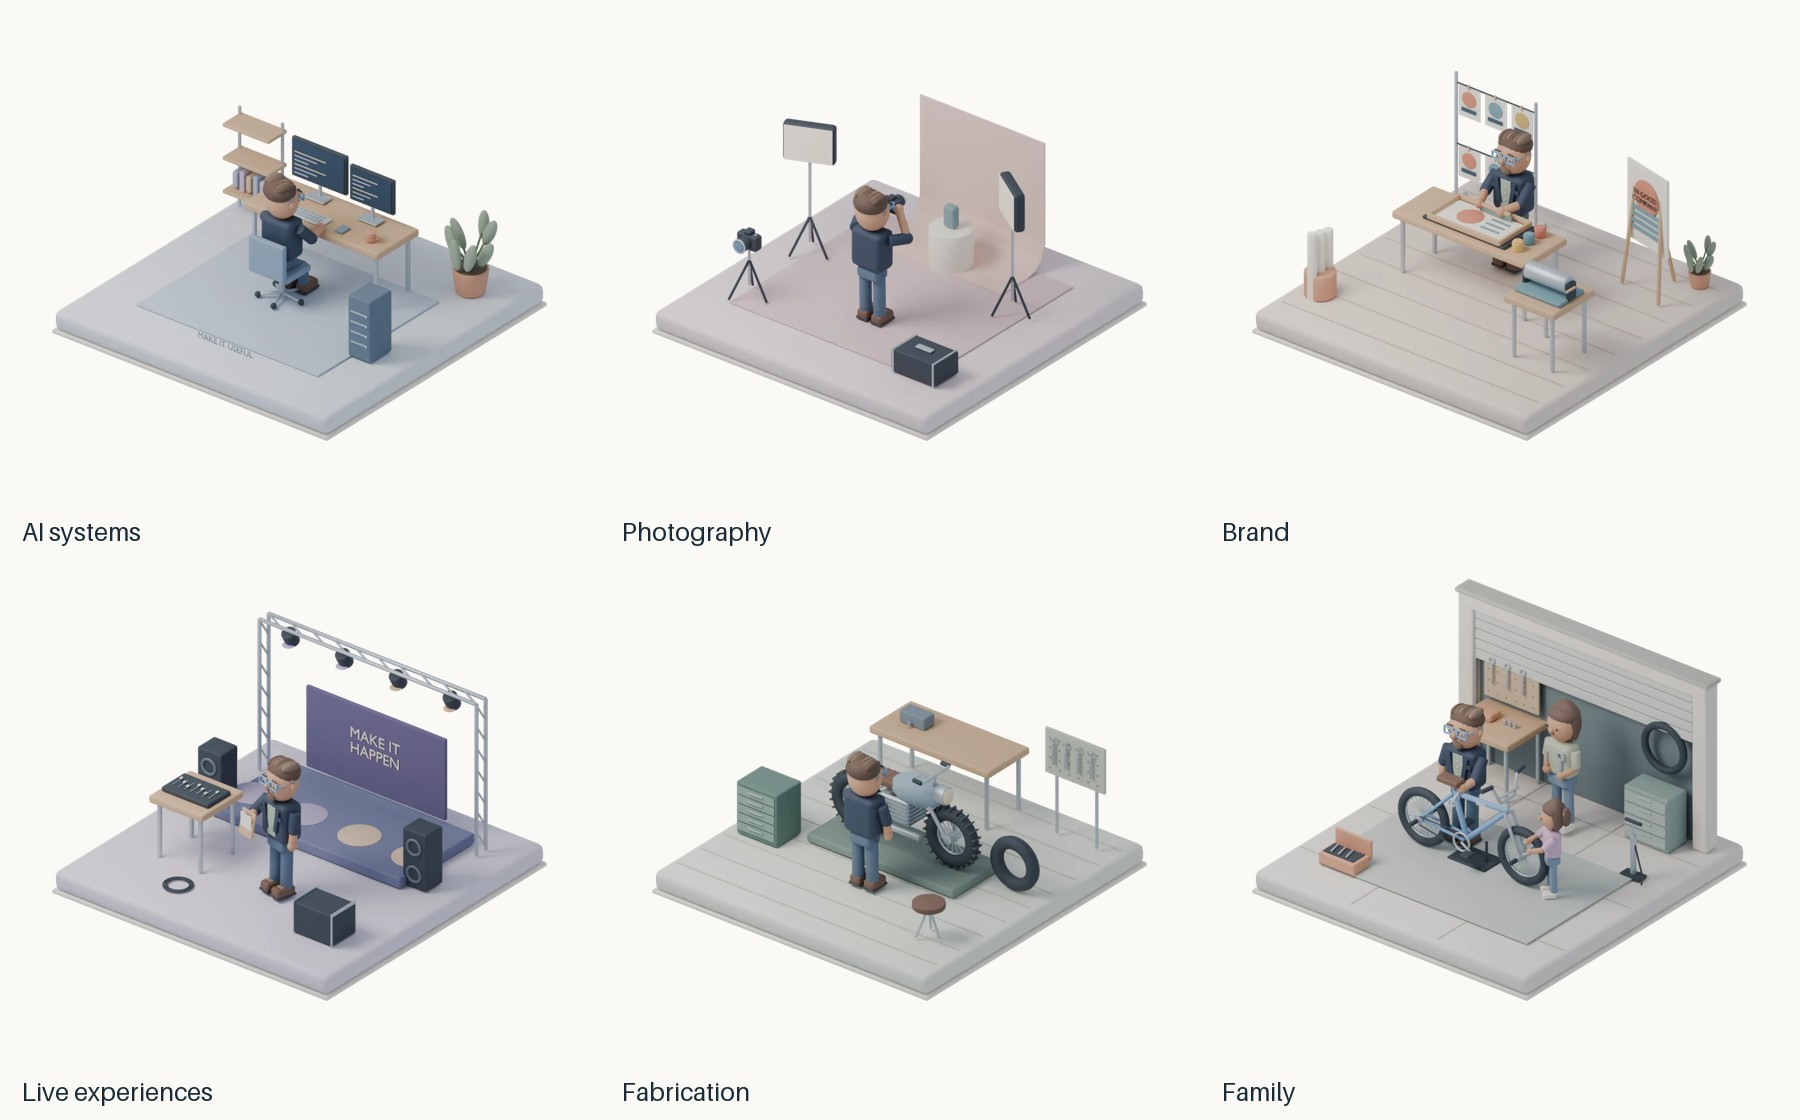
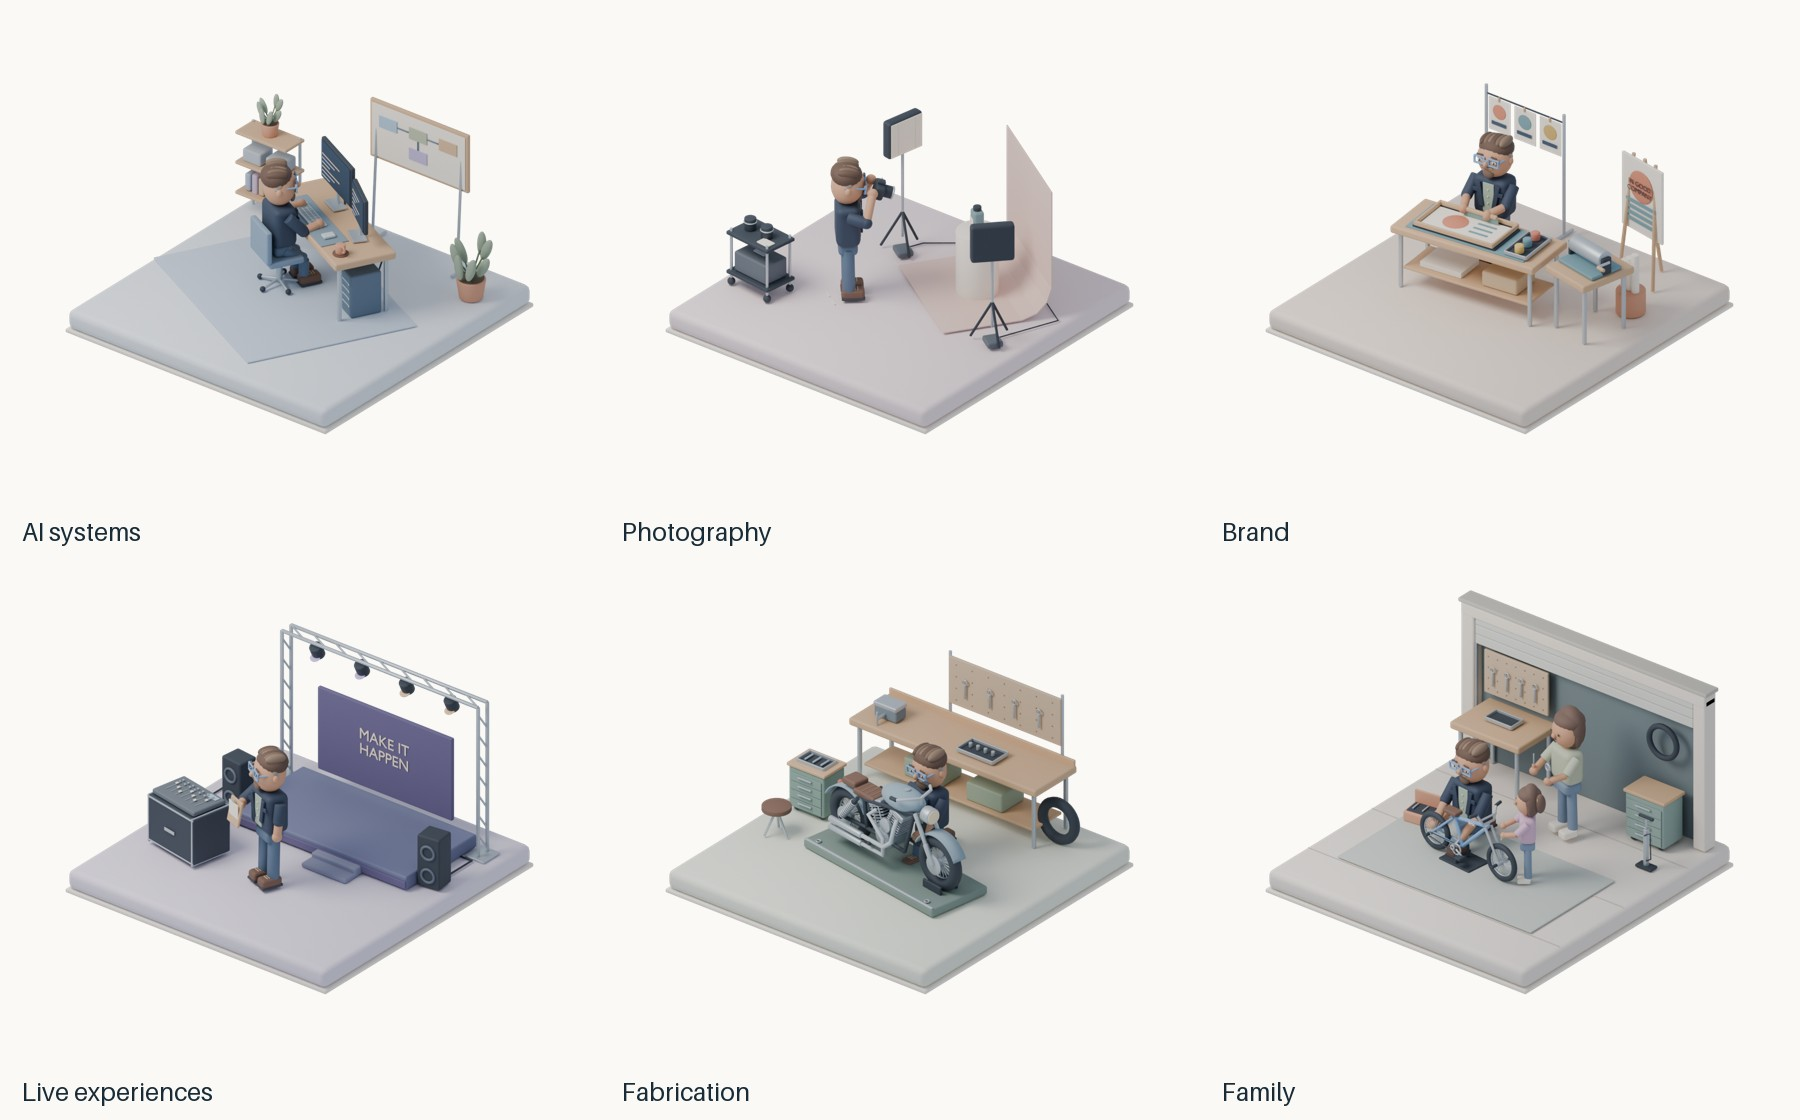
Fix diorama modeling mistakes in the Blender generator
- Glasses, eyes and brows sit on the face surface instead of floating
- AI desk: hands on the keys, thighs on the seat, feet clear of the chair base
- Photography: light cable runs behind the sweep; stray tape marks removed
- Brand: poster rests on the easel ledge, title clear of the sun, prints flat
- Events: backdrop stands on the deck with feet; console controls sit flush
- Fabrication: kneel beside a narrower lift; foot pegs attached; spare tire on the bench end
- Family: Dad behind the bike, crank turned clear of his wrench, tire on a hook,
  bench and pegboard against the wall, garage frame seam closed

Rebuilt models and posters follow in the next commit.

Claude-Session: https://claude.ai/code/session_012a2XegrK8suWreGQ6nSAg9

diff --git a/site/blender/build_dioramas.py b/site/blender/build_dioramas.py
@@ -70,7 +70,7 @@ def camera(parent,x,y,z,s=1):
  sphere('Shutter',.02,'metal',.14,.15,.02,p);return p
 
 def character(parent,x=0,z=0,pose='stand',rot=0):
- root=empty('MICHAEL',x,0,z,parent,rot);seated=pose in ('desk','ride','family');hip=.73 if seated else (.35 if pose=='kneel-low' else .48 if pose=='kneel' else .92)
+ root=empty('MICHAEL',x,0,z,parent,rot);seated=pose in ('desk','ride','family');hip=.75 if seated else (.35 if pose=='kneel-low' else .48 if pose=='kneel' else .92)
  box('Hips',.43,.21,.31,'pants',0,hip,0,root,bevel=.07)
  for side in (-1,1):
   sx=side*.14
@@ -79,7 +79,7 @@ def character(parent,x=0,z=0,pose='stand',rot=0):
    ankle=(sx,.12,-.50) if side==-1 else (sx,.13,.38)
    rod('Kneeling thigh',(sx,hip,0),knee,.098,'pants',root);rod('Kneeling shin',knee,ankle,.084,'pants',root);footz=ankle[2]+.08
   elif seated:
-   rod('Thigh',(sx,hip,0),(sx,.48,.36),.098,'pants',root);rod('Shin',(sx,.48,.36),(sx,.16,.36),.084,'pants',root);footz=.45
+   rod('Thigh',(sx,hip,0),(sx,.735,.40),.098,'pants',root);rod('Shin',(sx,.735,.40),(sx,.17,.50),.084,'pants',root);footz=.58
   else:
    rod('Trouser leg',(sx,hip,0),(sx,.16,.015),.101,'pants',root);footz=.08
   box('Boot',.215,.16,.36,'boot',sx,.13,footz,root,bevel=.055);box('Sole',.222,.044,.37,'sole',sx,.063,footz,root,bevel=.015)
@@ -101,18 +101,25 @@ def character(parent,x=0,z=0,pose='stand',rot=0):
  sphere('Hair cap',.29,'hair',0,.185,-.048,head,scale=(1,.65,.88))
  for i in range(6):
   o=sphere('Swept hair',.102,['hair','6B5747','7B6756'][i%3],-.185+i*.072,.275+i*.009,-.04,head,scale=(.69,.78,1.7));o.rotation_euler[1]=-.35
+ # Features sit on the face sphere's real surface, so nothing hovers in front of it.
+ def skin(x,y):return .286*.92*math.sqrt(max(0,1-(x/.286)**2-((y-.012)/(.286*1.15))**2))
+ inner=[]
  for side in (-1,1):
-  xx=side*.129
-  sphere('Eye white',.040,'F1E8DC',xx,.052,.248,head,scale=(1,.71,.25));sphere('Eye',.023,'35474E',xx,.052,.263,head,scale=(.8,1,.38));sphere('Eye catchlight',.007,'FFFFFF',xx-.004,.06,.272,head)
-  box('Blue pearl glasses top',.199,.026,.028,'blue',xx,.112,.263,head,bevel=.01);box('Blue pearl glasses bottom',.199,.026,.028,'blue',xx,-.005,.269,head,bevel=.01)
-  for k in (-1,1):box('Glasses rim',.027,.126,.028,'blue',xx+k*.089,.055,.267,head,bevel=.01)
-  rod('Glasses temple',(side*.223,.08,.25),(side*.263,.065,-.083),.014,'blue',head)
-  brow=box('Brow',.11,.025,.018,'hair',xx,.145,.247,head,bevel=.012);brow.rotation_euler[1]=side*.06
- box('Glasses bridge',.08,.018,.023,'blue',0,.073,.279,head,bevel=.006);sphere('Nose',.058,'skin',0,.015,.278,head,scale=(.66,.88,1.07))
+  xx=side*.129;d=skin(xx,.052)
+  sphere('Eye white',.040,'F1E8DC',xx,.052,d+.002,head,scale=(1,.71,.25));sphere('Eye',.023,'35474E',xx,.052,d+.009,head,scale=(.8,1,.38));sphere('Eye catchlight',.007,'FFFFFF',xx-.004,.06,d+.016,head)
+  # Each lens is a small frame tilted to follow the cheek, resting just proud of the eye.
+  tilt=math.atan2(skin(side*.05,.055)-skin(side*.21,.055),.16);lens_d=skin(xx,.055)+.034
+  lens=empty('Glasses lens',xx,.055,lens_d,head,side*tilt)
+  box('Blue pearl glasses top',.17,.024,.024,'blue',0,.05,0,lens,bevel=.009);box('Blue pearl glasses bottom',.17,.024,.024,'blue',0,-.05,0,lens,bevel=.009)
+  for k in (-1,1):box('Glasses rim',.024,.124,.024,'blue',k*.081,0,0,lens,bevel=.009)
+  ox=xx+side*.081*math.cos(tilt);od=lens_d-.081*math.sin(tilt);inner.append(lens_d+.081*math.sin(tilt))
+  rod('Glasses temple',(ox+side*.008,.075,od-.01),(side*.283,.066,-.02),.012,'blue',head)
+  brow=box('Brow',.11,.025,.018,'hair',xx,.145,skin(xx,.145)+.01,head,bevel=.012);brow.rotation_euler[1]=side*.06;brow.rotation_euler[2]=side*tilt
+ box('Glasses bridge',.08,.018,.022,'blue',0,.072,max(inner),head,bevel=.006);sphere('Nose',.058,'skin',0,.015,.278,head,scale=(.66,.88,1.07))
  arms=[]
  for side in (-1,1):
   ar=empty('ARM_R' if side==1 else 'ARM_L',side*.34,.54,0,body);elbow=(side*.05,-.27,.055);hand=(side*.055,-.54,.09)
-  if pose in ('desk','family'):elbow=(side*.06,-.26,.24);hand=(side*.01,-.22,.53)
+  if pose in ('desk','family'):elbow=(side*.07,-.15,.26);hand=(side*.02,-.13,.55)
   if pose in ('kneel','kneel-low'):elbow=(side*.025,-.30,.22);hand=(-side*.04,-.58 if pose=='kneel-low' else -.48,.53)
   if pose=='photo':elbow=(side*.15,-.02,.27);hand=(-side*.11,.36,.38)
   if pose=='ride':elbow=(side*.06,-.29,.42);hand=(side*.03,-.32,.94)
@@ -196,7 +203,7 @@ def motorcycle(parent,x=0,z=0,s=1):
  for zz in (-.34,.34):rod('Grip',(.40,1.40,zz),(.27,1.39,zz),.032,'dark',p)
  lamp=cylinder('Round headlight housing',.13,.18,'metal',.77,1.17,0,p);lamp.rotation_euler[1]=math.pi/2
  glass=cylinder('Round headlight',.112,.012,'F5E4BA',.865,1.17,0,p);glass.rotation_euler[1]=math.pi/2
- for zz in (-.29,.29):rod('Foot peg',(-.17,.43,zz),(-.17,.43,zz*1.4),.028,'dark',p)
+ for zz in (-.15,.15):rod('Foot peg',(-.17,.45,zz),(-.17,.45,zz*2.6),.028,'dark',p)
  sphere('Tail light',.045,'B86253',-1.25,.89,0,p)
  return p
 
@@ -224,7 +231,7 @@ def family_person(p,name,x,z,scale=.7,seated=True,working=False):
  sphere('Hair crown',.27,'655047',0,.17,-.048,head,scale=(1,.64,.95))
  for side in (-1,1):
   sphere('Hair side',.09,'655047',side*.235,-.04,-.055,head,scale=(.65,2.2,.8))
-  sphere('Eye',.024,'dark',side*.105,.025,.242,head,scale=(.8,1,.3))
+  sphere('Eye',.024,'dark',side*.105,.025,.01+.26*.91*math.sqrt(1-(.105/.26)**2-(.025/.286)**2)+.004,head,scale=(.8,1,.3))
  sphere('Nose',.044,'skin',0,-.023,.258,head)
  box('Smile',.072,.013,.009,'81574E',0,-.092,.243,head,bevel=.005)
  if name=='DAUGHTER':
@@ -267,8 +274,8 @@ def bmx(p,x=0,z=0):
  rod('Top chain run',(-.13,.41,.14),(-.73,.402,.14),.009,'dark',q)
  rod('Lower chain run',(-.13,.23,.14),(-.73,.328,.14),.009,'dark',q)
  for side in (-1,1):
-  rod('Crank arm',(-.13,.32,side*.15),(-.13+side*.13,.32-side*.08,side*.15),.016,'metal',q)
-  box('Platform pedal',.12,.041,.14,'dark',-.13+side*.13,.32-side*.08,side*.20,q,bevel=.012)
+  rod('Crank arm',(-.13,.32,side*.15),(-.13-side*.13,.32+side*.08,side*.15),.016,'metal',q)
+  box('Platform pedal',.12,.041,.14,'dark',-.13-side*.13,.32+side*.08,side*.20,q,bevel=.012)
  text('Frame decal','BMX',.067,'ivory',.10,.82,.036,q)
  return q
 
@@ -397,8 +404,7 @@ def photo(p):
   ring('Lens focus ring',.096,.012,'metal',xx,1.11,0,cart,flat=True)
  box('Folded microfiber',.24,.025,.17,'ivory',.27,.985,.15,cart)
  # Marks describe real operator/subject positions without adding scene titles.
- for xx in (-.65,-.38):box('Photographer tape mark',.15,.005,.028,'ivory',xx,.008,1.32,shoot)
- cable('Lighting cable',[(-1.63,.025,-.23),(-1.70,.025,-.60),(-1.30,.025,-1.84),(1.30,.025,-1.84),(1.55,.025,-.67)],shoot,.012)
+ cable('Lighting cable',[(-1.63,.025,-.23),(-1.66,.025,-1.10),(-1.40,.025,-2.08),(1.20,.025,-2.08),(1.55,.025,-1.30),(1.55,.025,-.67)],shoot,.012)
  return c,h,a
 
 def graphic_arts(p):
@@ -432,8 +438,8 @@ def graphic_arts(p):
   paper=empty('MOTION_paper',-.51+i*.51,1.72,0,rack)
   box('Art paper',.43,.59,.013,'ivory',parent=paper)
   box('Wooden clip',.032,.08,.035,'wood',0,.30,.018,paper)
-  sphere('Printed circle',.13,['C97C61','698F9A','C1A35A'][i],0,.07,.014,paper,scale=(1,1,.04))
-  box('Printed bar',.29,.065,.007,'394C62',0,-.14,.026,paper,bevel=.003)
+  sphere('Printed circle',.13,['C97C61','698F9A','C1A35A'][i],0,.07,.0075,paper,scale=(1,1,.03))
+  box('Printed bar',.29,.065,.004,'394C62',0,-.14,.0085,paper,bevel=.0015)
  # Press and paper rolls form one finishing station; open floor remains in front.
  station=empty('FINISHING_STATION',1.72,0,-.12,p,-.20)
  t=desk(station,0,0,.95)
@@ -445,20 +451,25 @@ def graphic_arts(p):
  cylinder('Roll stock bin',.24,.40,'clay',.03,.21,-.81,station)
  for i in range(3):cylinder('Rolled stock',.064,.84+i*.10,'ivory',-.12+i*.13,.46+i*.05,-.81,station)
  easel=empty('FINISHED_POSTER',1.43,0,-1.86,p,-.18)
- for xx in (-.40,.40):rod('Easel front leg',(xx,.02,.18),(xx*.65,2.16,0),.03,'wood',easel)
- rod('Easel back leg',(0,.02,-.35),(0,2.16,0),.03,'wood',easel)
- box('Poster board',.96,1.30,.05,'ivory',0,1.48,.04,easel)
- sphere('Poster sun',.28,'C97C61',0,1.68,.079,easel,scale=(1,1,.06))
- for i in range(4):box('Poster wave',.69,.065,.01,'698F9A',0,1.04+i*.11,.09,easel,bevel=.024)
- text('Poster title','IN GOOD\nCOMPANY',.12,'dark',0,1.66,.11,easel)
+ # The board leans on the front legs and rests on a ledge, instead of the legs passing through it.
+ lean=math.atan2(.18,2.10)
+ for xx in (-.40,.40):rod('Easel front leg',(xx,.02,.18),(xx*.72,2.08,-.0),.03,'wood',easel)
+ rod('Easel back leg',(0,.02,-.42),(0,2.02,-.02),.03,'wood',easel)
+ box('Easel ledge',.98,.045,.12,'wood',0,.86,.16,easel,bevel=.012)
+ board=empty('Poster on easel',0,.89,.17,easel);board.rotation_euler[0]=-lean
+ box('Poster board',.96,1.30,.05,'ivory',0,.65,0,board)
+ text('Poster title','IN GOOD COMPANY',.085,'dark',0,1.18,.03,board)
+ sphere('Poster sun',.24,'C97C61',0,.80,.028,board,scale=(1,1,.04))
+ for i in range(3):box('Poster wave',.62,.055,.008,'698F9A',0,.24+i*.10,.029,board,bevel=.02)
  return c,h,a
 
 def events(p):
  stage=empty('STAGE_ASSEMBLY',.25,0,-1.07,p)
  box('Stage deck',3.50,.24,1.78,'666B8C',0,.13,0,stage)
  box('Stage fascia',3.50,.13,.045,'5C547A',0,.11,.90,stage)
- box('Event graphic',2.70,1.48,.07,'5C547A',0,1.13,-.79,stage)
- text('Event title','MAKE IT\nHAPPEN',.27,'F2E3CE',0,1.20,-.744,stage)
+ box('Event graphic',2.70,1.48,.07,'5C547A',0,.99,-.79,stage)
+ for xx in (-1.15,1.15):box('Backdrop foot',.10,.04,.42,'metal',xx,.27,-.79,stage,bevel=.01)
+ text('Event title','MAKE IT\nHAPPEN',.27,'F2E3CE',0,1.06,-.744,stage)
  for xx in (-1.97,1.97):
   box('Truss baseplate',.38,.035,.42,'metal',xx,.018,-.75,stage)
   for zz in (-.87,-.64):rod('Truss upright',(xx,.04,zz),(xx,2.71,zz),.030,'metal',stage)
@@ -485,8 +496,8 @@ def events(p):
  box('Mixing console',1.02,.09,.66,'58616A',0,.95,0,tech)
  for i in range(7):
   xx=-.36+i*.12;box('Fader slot',.01,.007,.25,'metal',xx,1.002,.05,tech)
-  box('Fader cap',.04,.018,.05,'ivory',xx,1.02,(i%3)*.07-.06,tech)
-  for zz in (-.19,-.12):cylinder('Mixer knob',.018,.026,'metal',xx,1.02,zz,tech)
+  box('Fader cap',.04,.018,.05,'ivory',xx,1.006,(i%3)*.07-.06,tech)
+  for zz in (-.19,-.12):cylinder('Mixer knob',.018,.026,'metal',xx,1.008,zz,tech)
  box('Console meter',.22,.008,.095,'9BB8D1',.33,1.002,-.22,tech)
  for xx in (-.43,.43):
   for zz in (-.26,.26):sphere('Roadcase wheel',.075,'dark',xx,.075,zz,tech)
@@ -499,13 +510,13 @@ def events(p):
 
 def fabrication(p):
  bay=empty('MOTORCYCLE_SERVICE_BAY',.24,0,.40,p,-.17)
- box('Motorcycle lift',3.05,.15,1.17,'6E827B',0,.085,0,bay)
+ box('Motorcycle lift',3.05,.15,.85,'6E827B',0,.085,.16,bay)
  box('Lift side rail',3.0,.035,.045,'metal',0,.17,.56,bay)
  bike=motorcycle(bay,0,0,1.04);bike.location.z=.13
  # A front-wheel chock and rear tie points make the lift a credible work fixture.
  for zz in (-.17,.17):box('Wheel chock',.42,.14,.045,'dark',1.06,.23,zz,bay)
  for xx in (-1.28,1.28):ring('Lift tie-down',.037,.013,'metal',xx,.18,.48,bay,flat=True)
- c,h,a=character(bay,-.02,-.73,'kneel',0);h.rotation_euler[0]=.16
+ c,h,a=character(bay,-.02,-.93,'kneel',0);h.rotation_euler[0]=.16
  rod('Mechanic socket extension',(-.04,-.48,.53),(-.04,-.42,.70),.019,'metal',a[1])
  # Back bench, storage, vise and tools occupy one continuous wall-free workshop edge.
  bench=empty('SERVICE_BENCH',-.28,0,-1.94,p)
@@ -526,7 +537,7 @@ def fabrication(p):
  tools=tray(cart,0,.86,0,.53,.34)
  for xx in (-.16,0,.16):rod('Ready socket tool',(xx,.04,-.10),(xx,.04,.10),.018,'metal',tools)
  # Spare tire and stool are stored at the rear service edge.
- ring('Spare tire',.32,.085,'dark',1.68,.40,-1.9,p)
+ spare=ring('Spare tire',.32,.085,'dark',1.72,.445,-1.94,p);spare.rotation_euler=(math.pi/2,-.10,math.pi/2)
  stool=empty('Mechanic stool',-1.93,0,.67,p)
  cylinder('Stool seat',.24,.08,'boot',0,.50,0,stool)
  for i in range(3):
@@ -539,7 +550,7 @@ def family(p):
  # Bicycle, people and tools are arranged around the drivetrain and front wheel.
  repair=empty('FAMILY_REPAIR',-.18,0,.55,p,-.10)
  bike=bmx(repair,0,0)
- dad,h,a=character(repair,-.49,-.58,'kneel-low',0);h.rotation_euler[0]=.16
+ dad,h,a=character(repair,-.49,-.95,'kneel-low',0);h.rotation_euler[0]=.16
  ar=a[1];rod('Dad socket handle',(-.04,-.58,.53),(-.04,-.67,.73),.020,'metal',ar)
  ring('Dad socket',.035,.012,'metal',-.04,-.68,.75,ar)
  daughter=family_person(repair,'DAUGHTER',1.00,-.30,.74,False,True);face_toward(daughter,.60,.10)
@@ -564,16 +575,16 @@ def family(p):
  for i in range(3):rod('Sorted spare tool',(-.19+i*.18,.25,-.09),(-.19+i*.18,.25,.09),.014,'metal',toolbox)
  # Garage frontage frames the family, with the door raised above their heads.
  garage=empty('GARAGE_FRONT',0,0,-2.28,p)
- box('Garage interior',4.65,2.64,.07,'66757A',0,1.32,-.07,garage)
+ box('Garage interior',4.65,2.64,.07,'66757A',0,1.32,-.06,garage)
  for xx in (-2.33,2.33):box('Garage pier',.25,2.73,.28,'E6DED0',xx,1.37,.05,garage)
- box('Garage lintel',4.91,.22,.29,'E6DED0',0,2.70,.05,garage)
+ box('Garage lintel',4.97,.22,.30,'E6DED0',0,2.70,.05,garage)
  box('Garage top trim',4.99,.07,.32,'B2B0A5',0,2.84,.05,garage)
  for i in range(3):box('Raised garage slat',4.37,.16,.055,'CBCFC8',0,2.22+i*.17,.13,garage)
  for xx in (-2.20,2.20):box('Door track',.045,2.5,.055,'metal',xx,1.28,.11,garage)
- d=desk(p,-1.38,-1.86,1.39);pegboard(p,-1.38,1.70,-2.16,1.28,.77)
+ d=desk(p,-1.38,-1.79,1.39);pegboard(p,-1.38,1.70,-2.278,1.28,.77)
  tray(d,0,1.145,.02,.53,.30)
  cabinet(p,1.58,-1.91,.78,.79,.49,'829B94')
- ring('Stored BMX tire',.275,.047,'dark',1.58,1.68,-2.13,p)
+ ring('Stored BMX tire',.275,.047,'dark',1.58,1.68,-2.255,p);rod('Tire hook',(1.58,1.93,-2.32),(1.58,1.93,-2.22),.016,'metal',p)
  # Pump is parked against the storage cabinet, hose secured to its barrel.
  pump=empty('Parked floor pump',2.02,0,-1.16,p)
  box('Pump foot',.32,.05,.18,'dark',0,.03,0,pump);cylinder('Pump barrel',.047,.66,'metal',0,.37,0,pump)
@@ -609,7 +620,7 @@ def main():
   if opts.scene and opts.scene!=slug:continue
   print('BUILDING',slug,flush=True);scene=setup_scene(slug,opts.resolution,opts.samples)
   root=empty('DIORAMA_'+slug);base(root,col);builder(root)
-  root['environment']=slug;root['authored_in']='Blender';root['composition_revision']='purposeful-workspaces-v2'
+  root['environment']=slug;root['authored_in']='Blender';root['composition_revision']='purposeful-workspaces-v3'
   bpy.ops.object.select_all(action='DESELECT')
   for obj in list(scene.objects):
    if obj.type in {'FONT','CURVE'}:
